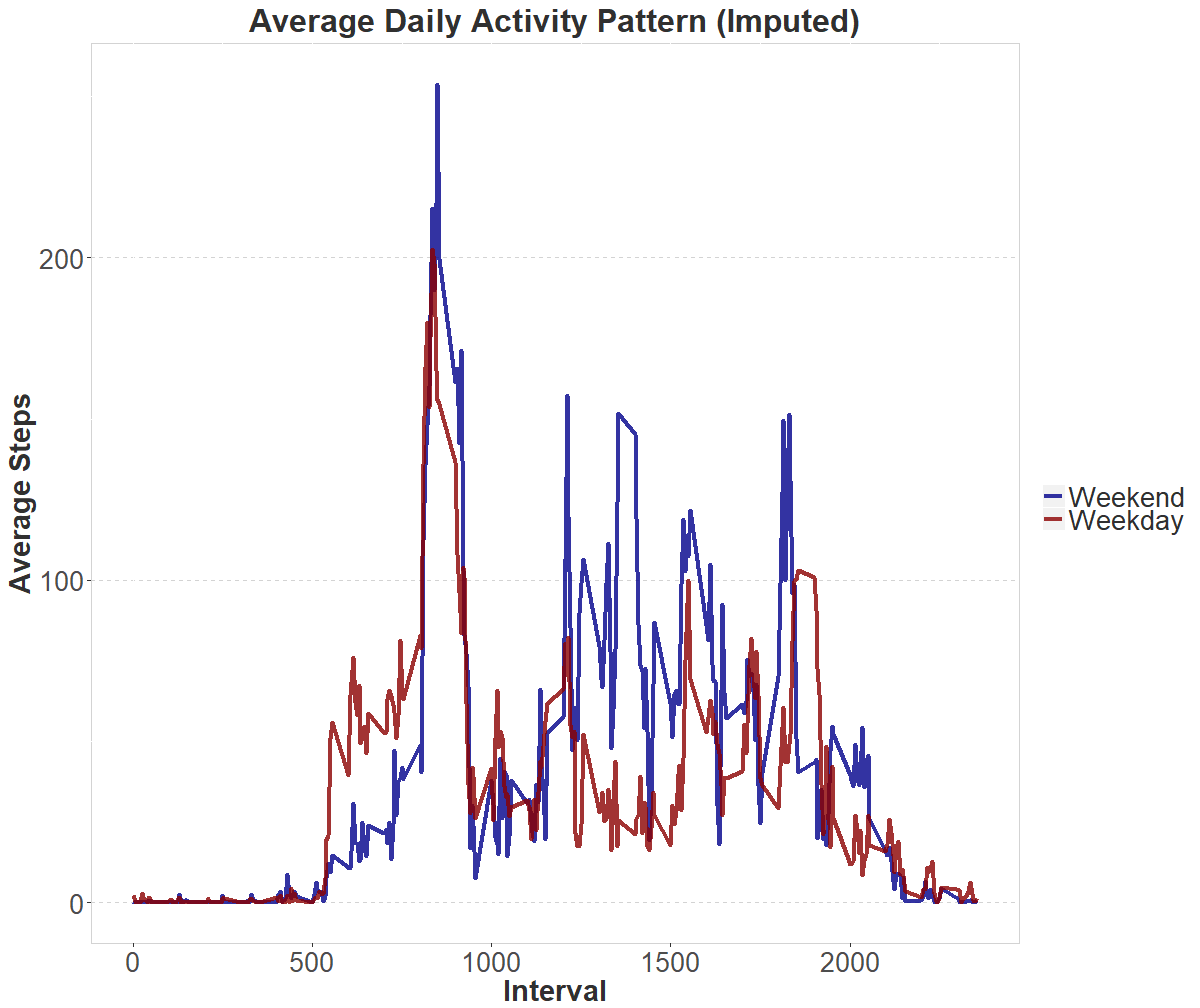
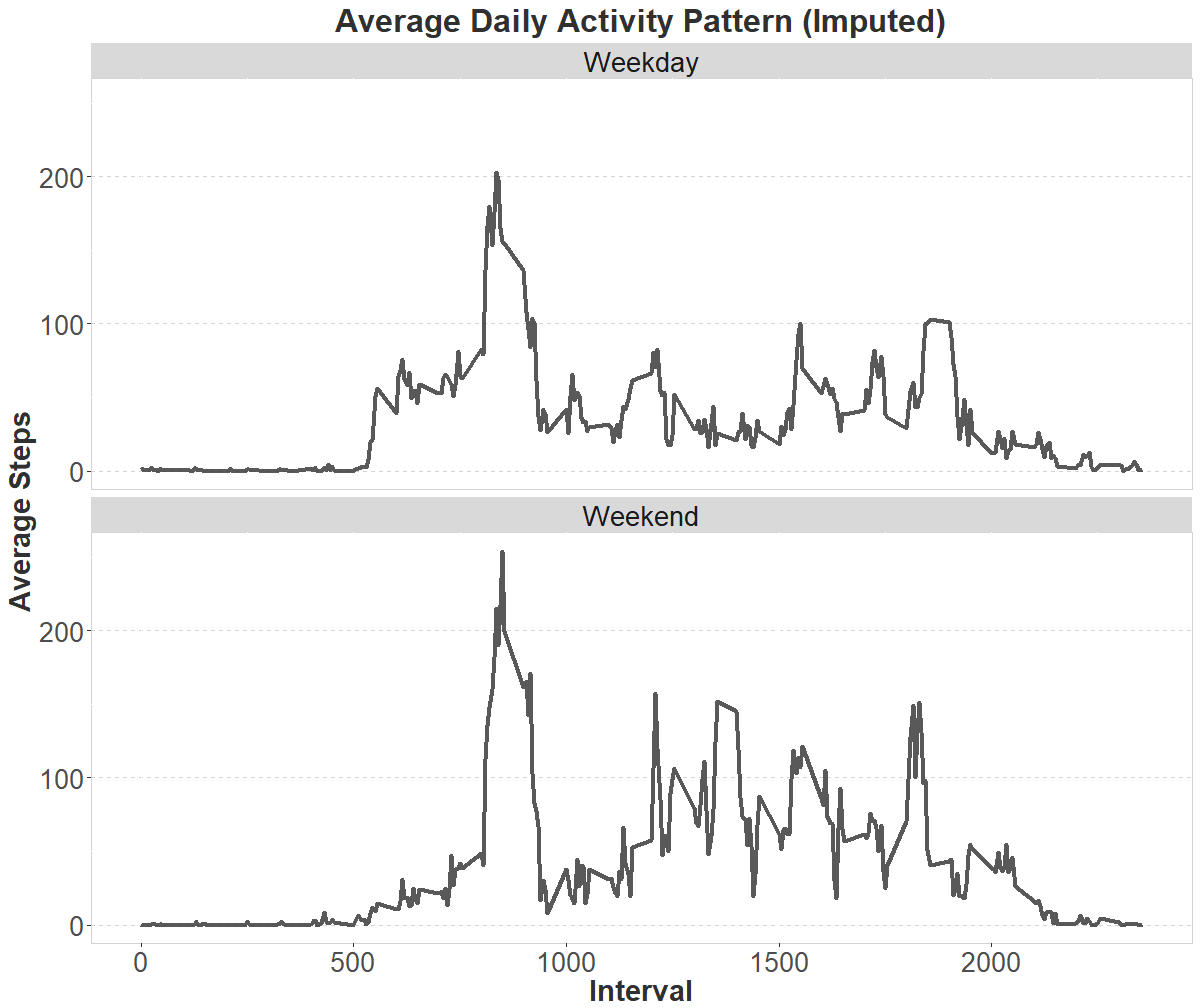
changed to panel plots

diff --git a/PA1_template.html b/PA1_template.html
@@ -1045,20 +1045,21 @@ imputed_daily_pattern &lt;- rbind(
     filter(weekday == 1) %&gt;%
     group_by(interval) %&gt;%
     summarise(ave=mean(imputed_steps)) %&gt;%
-    mutate(weekday=1),
+    mutate(weekday=&quot;Weekday&quot;),
   imputed_df %&gt;%
     filter(weekday == 0) %&gt;%
     group_by(interval) %&gt;%
     summarise(ave=mean(imputed_steps)) %&gt;%
-    mutate(weekday=0)
+    mutate(weekday=&quot;Weekend&quot;)
 )
 
-ggplot(data=imputed_daily_pattern, aes(x=interval, y=ave, color=as.factor(weekday))) +
-  geom_line(size=1.5,alpha=0.8) +
+ggplot(data=imputed_daily_pattern, aes(x=interval, y=ave)) +
+  geom_line(size=1.5,alpha=0.8,color=&quot;#303030&quot;) +
   scale_color_manual(name=&quot;&quot;,labels=c(&quot;Weekend&quot;,&quot;Weekday&quot;),values=c(&quot;darkblue&quot;, &quot;darkred&quot;)) +
   xlab(&quot;Interval&quot;) +
   ylab(&quot;Average Steps&quot;) +
   ggtitle(&quot;Average Daily Activity Pattern (Imputed)&quot;) +
+  facet_wrap(~as.factor(weekday),nrow=2) +
   theme(axis.text.x = element_text(vjust = 0.5,size=20),
         text = element_text(family = &quot;sans&quot;, color = &quot;#303030&quot;, size = 20),
         title = element_text(face = &quot;bold&quot;, color = &quot;#303030&quot;, size = 23),
@@ -1071,7 +1072,7 @@ ggplot(data=imputed_daily_pattern, aes(x=interval, y=ave, color=as.factor(weekda
         panel.grid.major.y = element_line(colour=&quot;#D3D3D3&quot;,linetype = &quot;dashed&quot;),
         strip.text.x = element_text(size = 20),
         legend.text=element_text(size=20))</code></pre>
[2 lines of base64/hex data omitted]
 <p>While there are still high number of steps during the 835AM on weekends, it is not anymore as outlying compared on weekdays. Steps on weekends also seem to be consistently higher as compared on weekdays where steps start to go low starting at 10AM.</p>
 </div>
 

diff --git a/PA1_template.md b/PA1_template.md
@@ -564,20 +564,21 @@ imputed_daily_pattern <- rbind(
     filter(weekday == 1) %>%
     group_by(interval) %>%
     summarise(ave=mean(imputed_steps)) %>%
-    mutate(weekday=1),
+    mutate(weekday="Weekday"),
   imputed_df %>%
     filter(weekday == 0) %>%
     group_by(interval) %>%
     summarise(ave=mean(imputed_steps)) %>%
-    mutate(weekday=0)
+    mutate(weekday="Weekend")
 )
 
-ggplot(data=imputed_daily_pattern, aes(x=interval, y=ave, color=as.factor(weekday))) +
-  geom_line(size=1.5,alpha=0.8) +
+ggplot(data=imputed_daily_pattern, aes(x=interval, y=ave)) +
+  geom_line(size=1.5,alpha=0.8,color="#303030") +
   scale_color_manual(name="",labels=c("Weekend","Weekday"),values=c("darkblue", "darkred")) +
   xlab("Interval") +
   ylab("Average Steps") +
   ggtitle("Average Daily Activity Pattern (Imputed)") +
+  facet_wrap(~as.factor(weekday),nrow=2) +
   theme(axis.text.x = element_text(vjust = 0.5,size=20),
         text = element_text(family = "sans", color = "#303030", size = 20),
         title = element_text(face = "bold", color = "#303030", size = 23),
